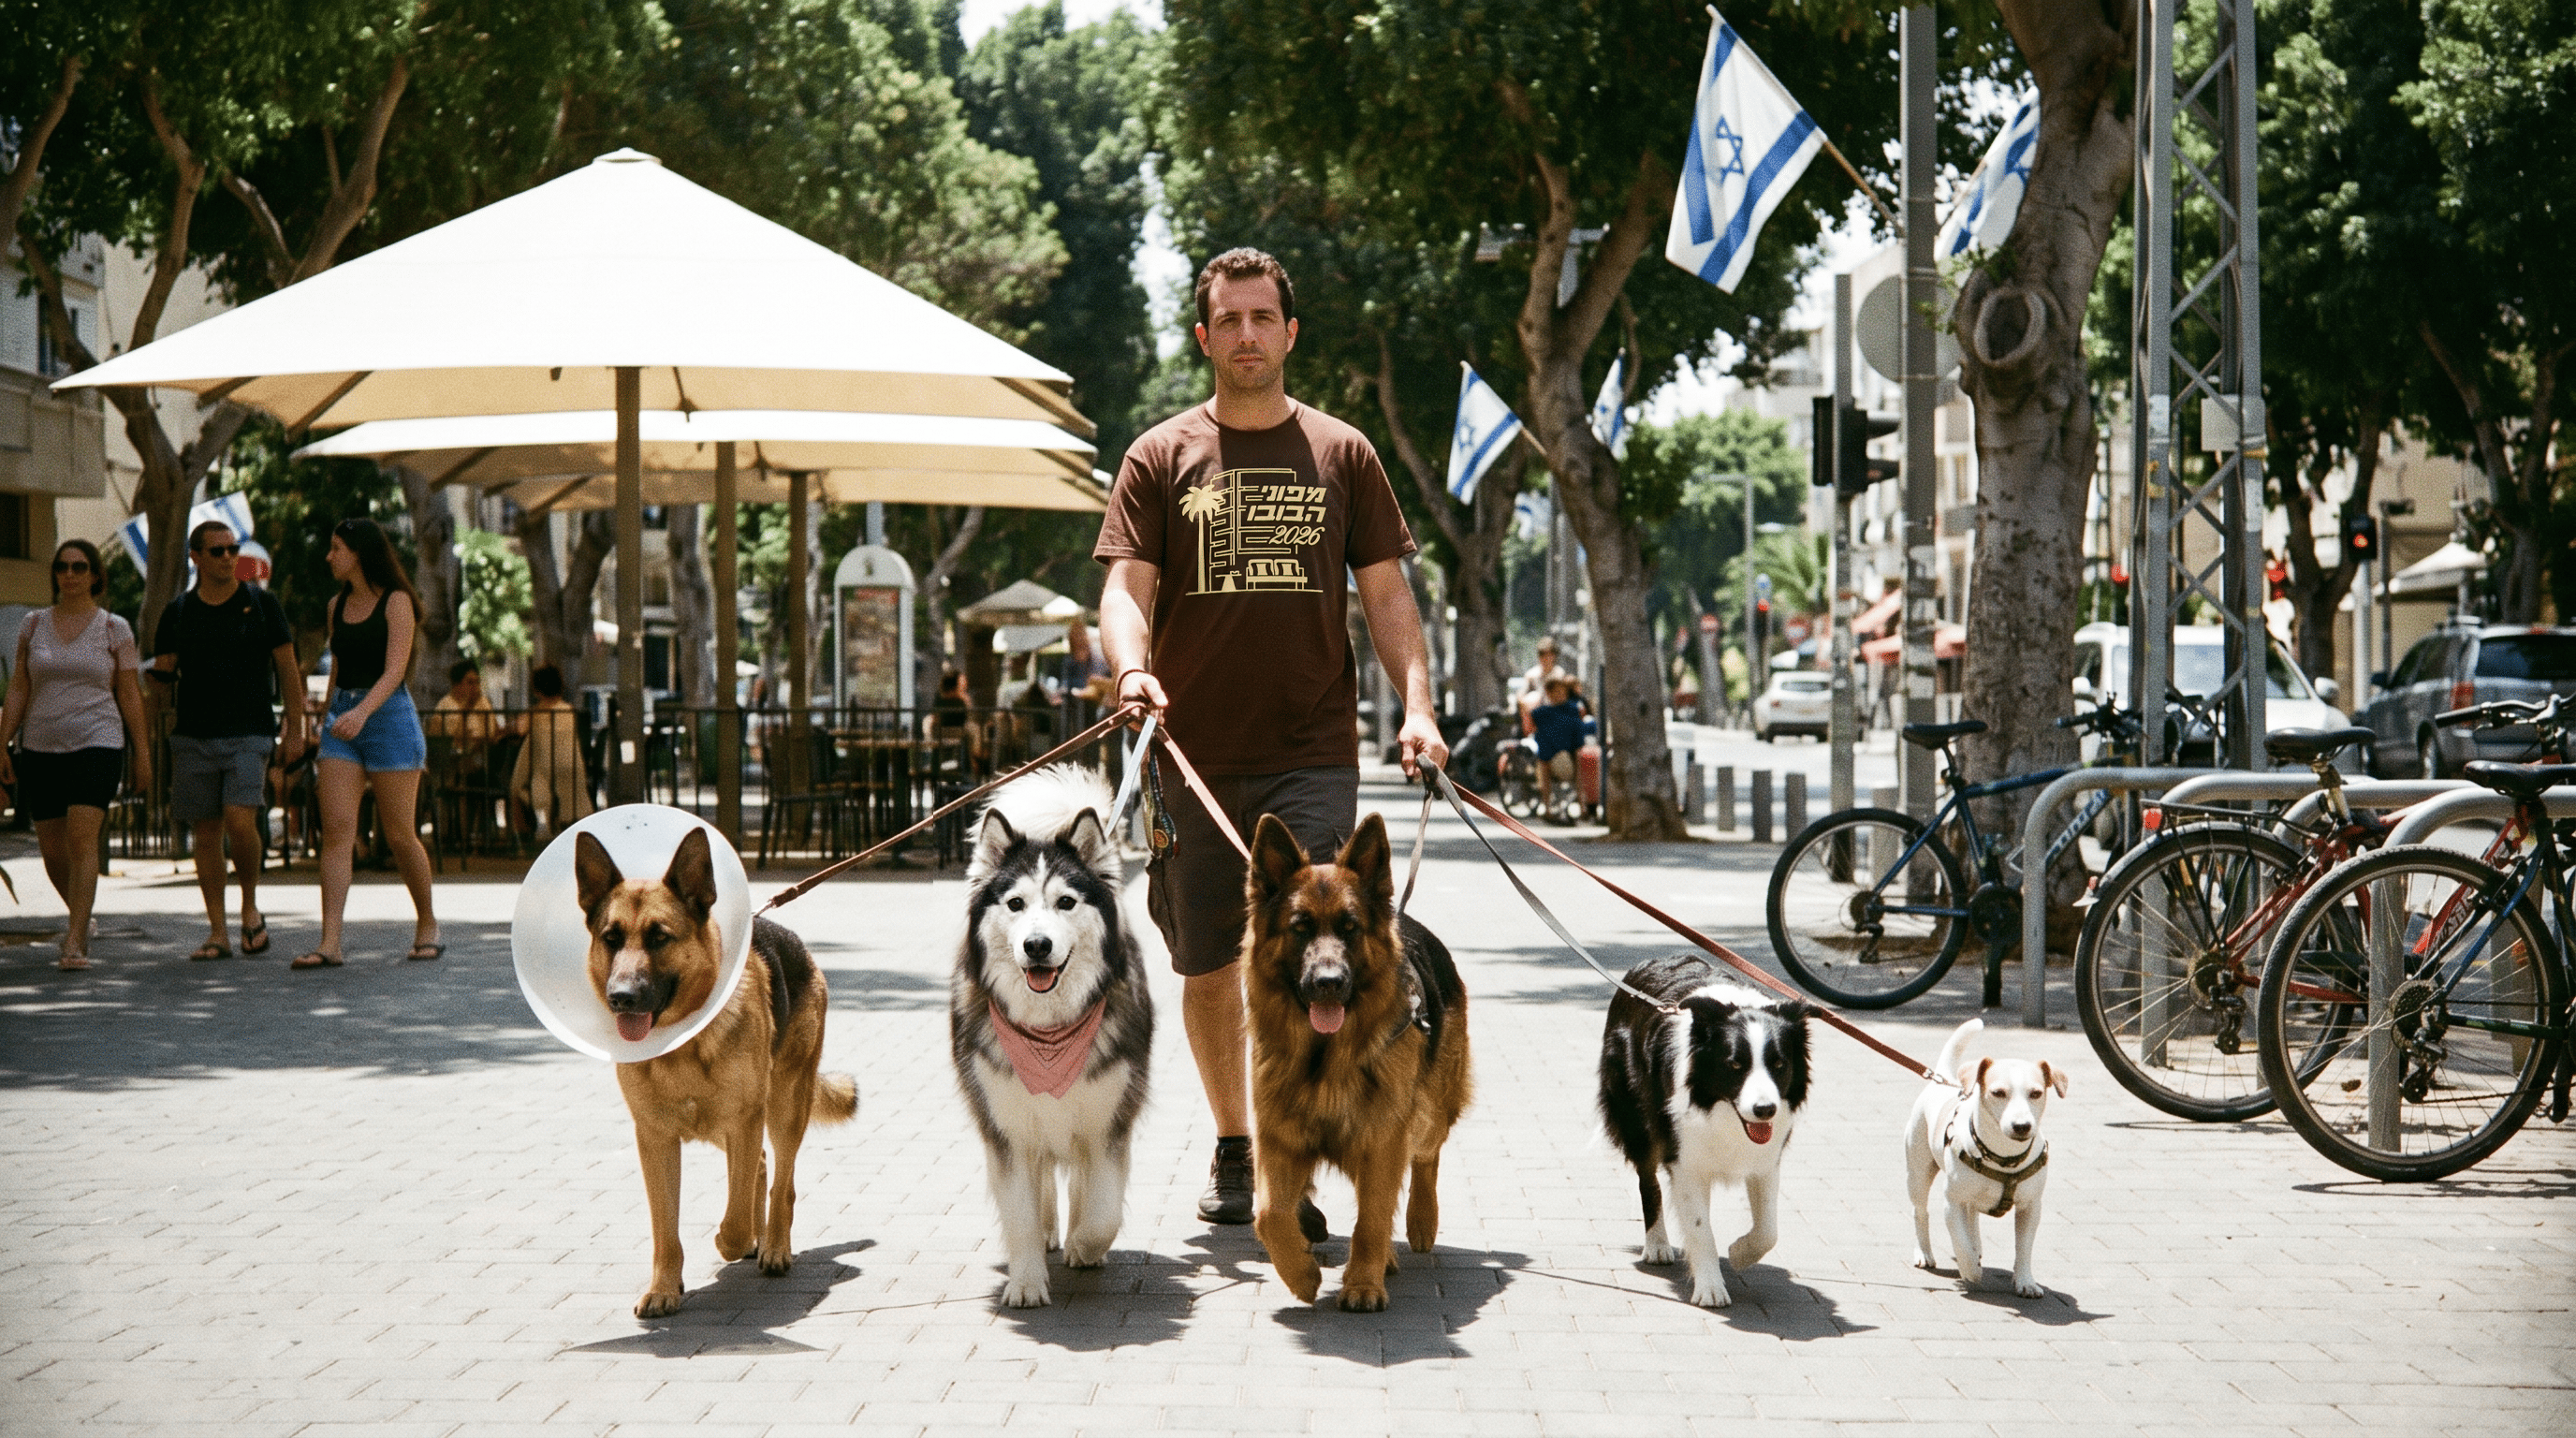
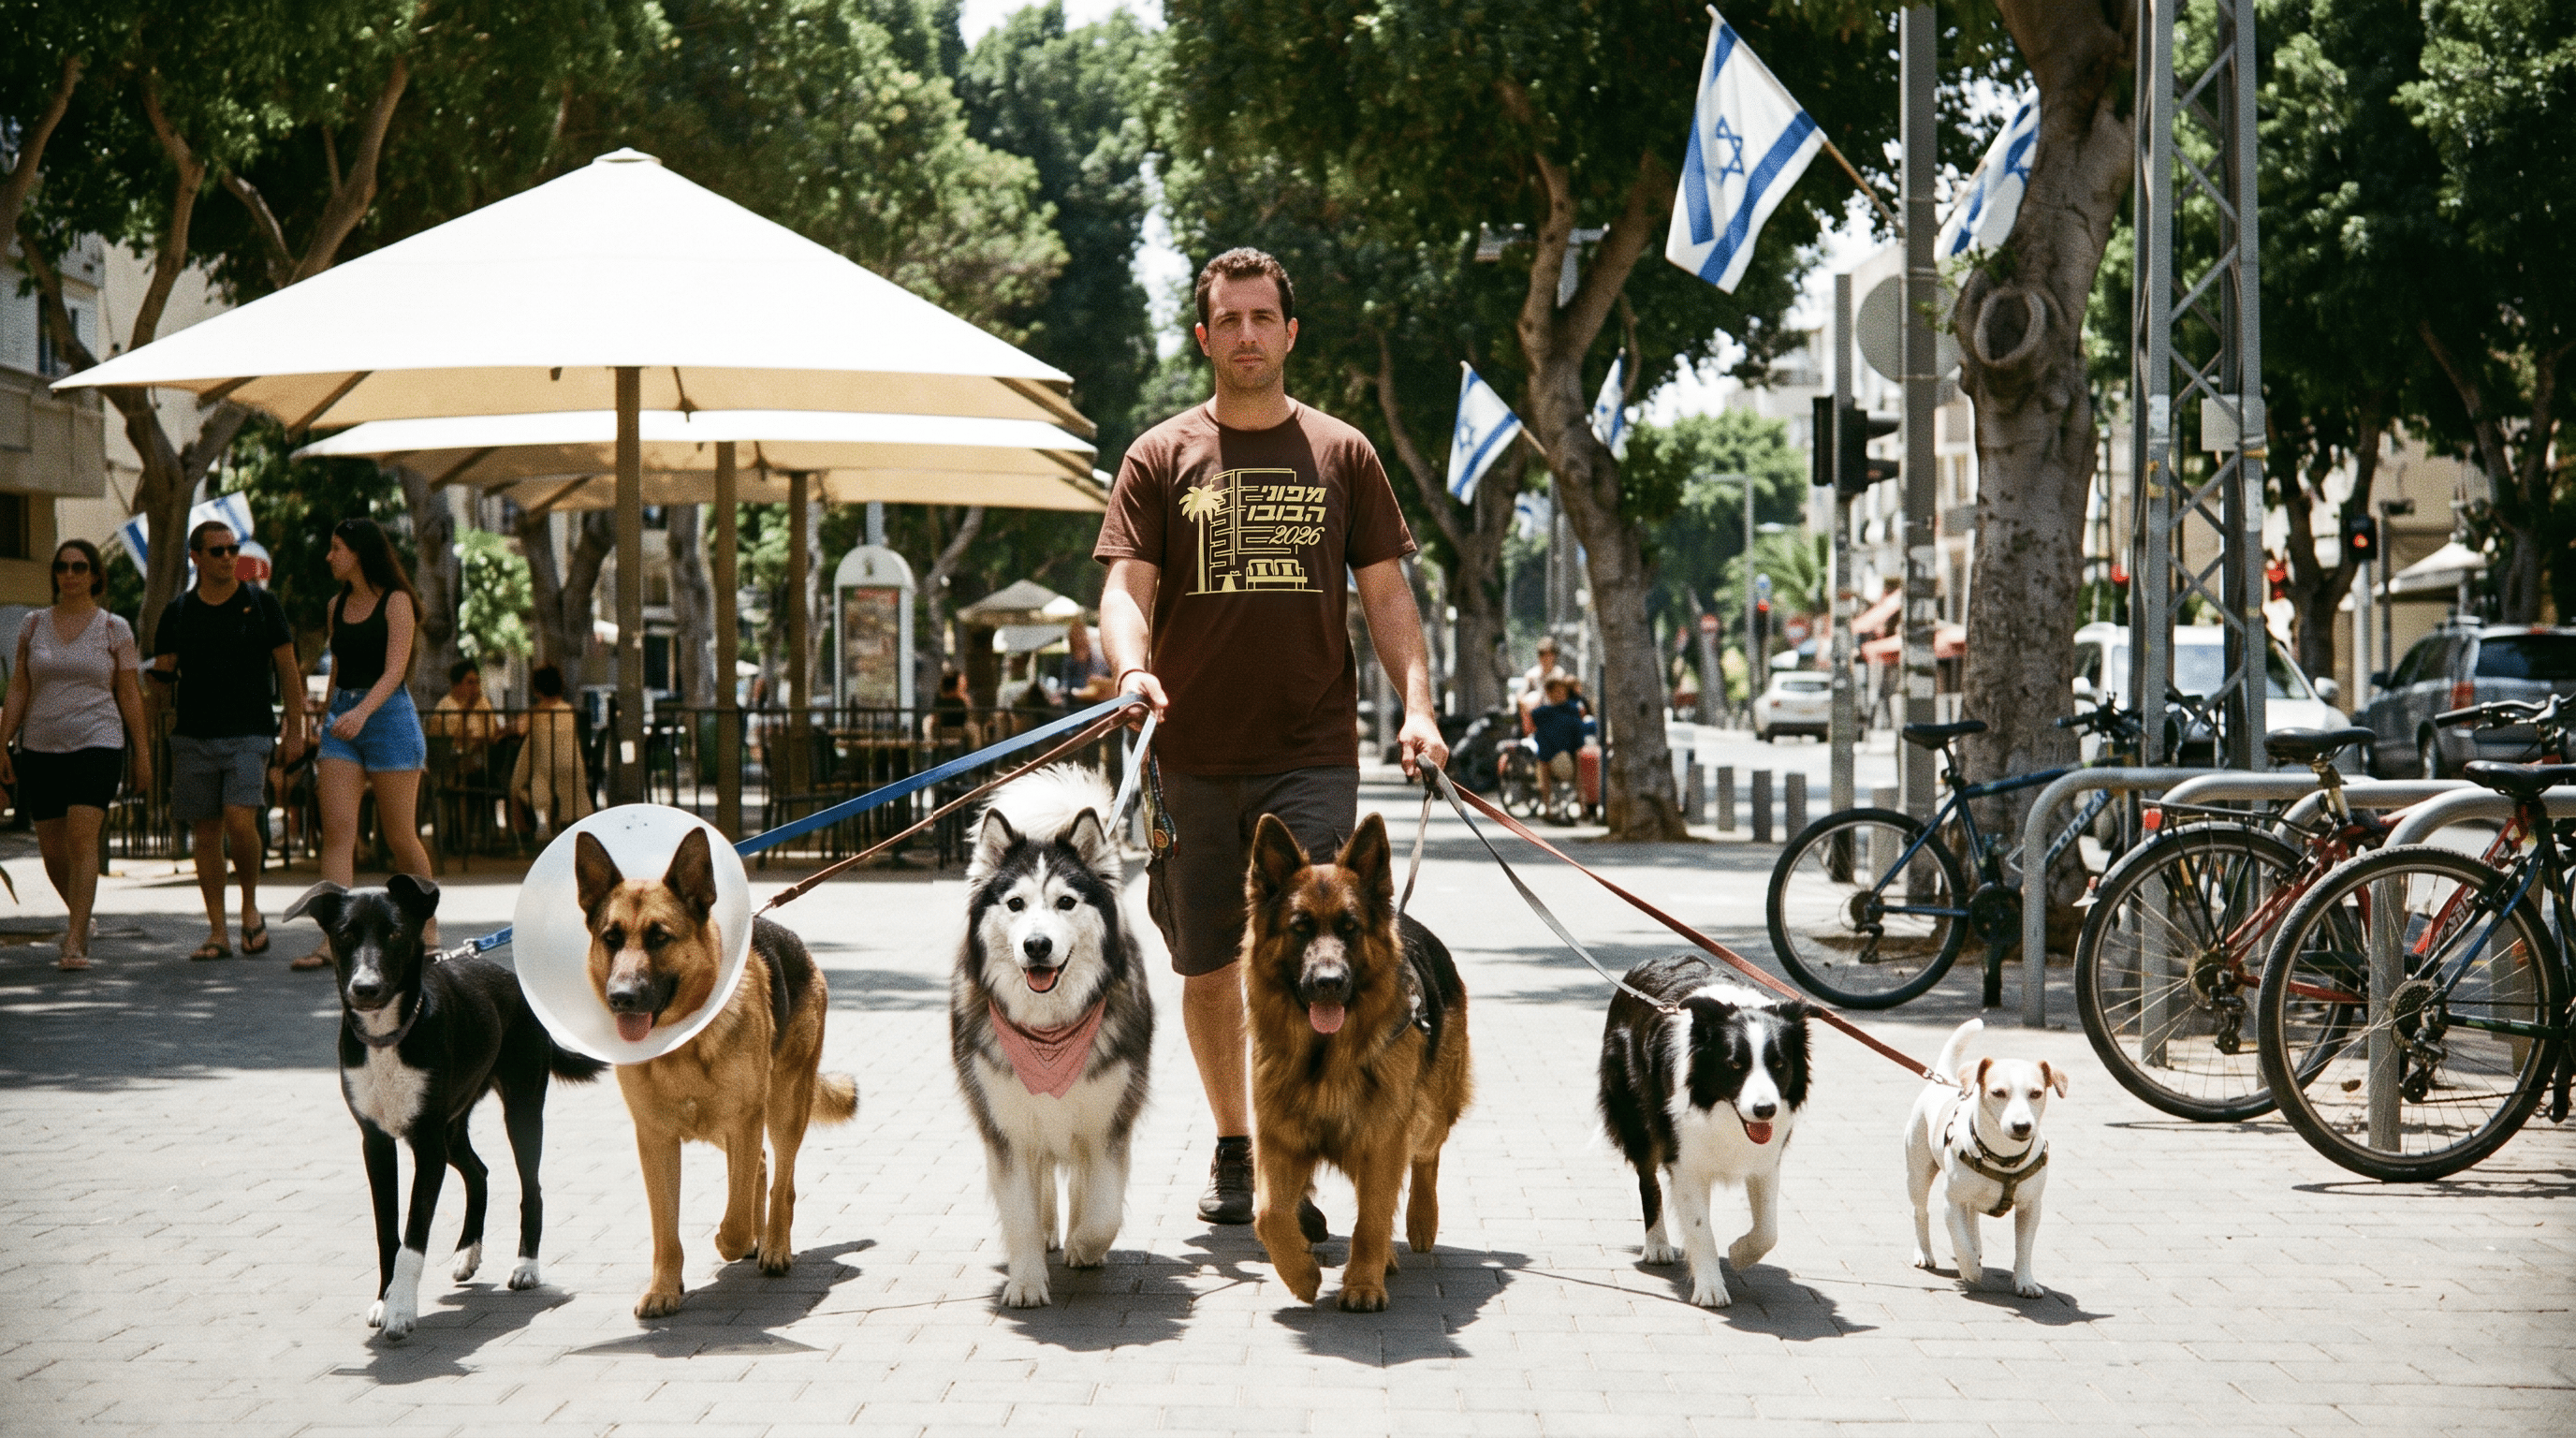
-

diff --git a/app/components/ZoomImage.tsx b/app/components/ZoomImage.tsx
@@ -1,6 +1,7 @@
 "use client";
 
 import { useEffect, useState } from "react";
+import { createPortal } from "react-dom";
 
 type Props = {
   src: string;
@@ -10,6 +11,11 @@ type Props = {
 
 export function ZoomImage({ src, imgClassName, containerClassName }: Props) {
   const [open, setOpen] = useState(false);
+  const [mounted, setMounted] = useState(false);
+
+  useEffect(() => {
+    setMounted(true);
+  }, []);
 
   useEffect(() => {
     if (!open) return;
@@ -39,30 +45,33 @@ export function ZoomImage({ src, imgClassName, containerClassName }: Props) {
           }
         />
       </div>
-      {open && (
-        <div
-          className="fixed inset-0 z-50 flex cursor-pointer items-center justify-center bg-black/95 p-4"
-          onClick={(e) => {
-            if (e.target === e.currentTarget) setOpen(false);
-          }}
-        >
-          <button
-            type="button"
-            aria-label="סגור"
-            onClick={() => setOpen(false)}
-            className="absolute end-6 top-6 z-[70] cursor-pointer border-0 bg-transparent text-4xl font-light text-white transition-opacity hover:opacity-50"
-          >
-            ×
-          </button>
-          {/* eslint-disable-next-line @next/next/no-img-element */}
-          <img
-            src={src}
-            alt=""
-            onClick={(e) => e.stopPropagation()}
-            className="relative z-50 h-auto max-h-[90vh] w-auto max-w-[90vw] cursor-default object-contain"
-          />
-        </div>
-      )}
+      {mounted && open
+        ? createPortal(
+            <div
+              className="fixed inset-0 z-50 flex cursor-pointer items-center justify-center bg-black/95 p-4"
+              onClick={(e) => {
+                if (e.target === e.currentTarget) setOpen(false);
+              }}
+            >
+              <button
+                type="button"
+                aria-label="סגור"
+                onClick={() => setOpen(false)}
+                className="absolute end-6 top-6 z-[70] cursor-pointer border-0 bg-transparent text-4xl font-light text-white transition-opacity hover:opacity-50"
+              >
+                ×
+              </button>
+              {/* eslint-disable-next-line @next/next/no-img-element */}
+              <img
+                src={src}
+                alt=""
+                onClick={(e) => e.stopPropagation()}
+                className="relative z-50 h-auto max-h-[90vh] w-auto max-w-[90vw] cursor-default object-contain"
+              />
+            </div>,
+            document.body,
+          )
+        : null}
     </>
   );
 }